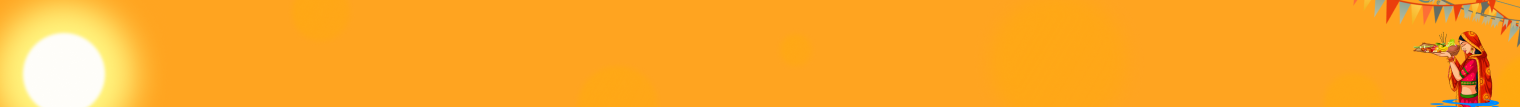
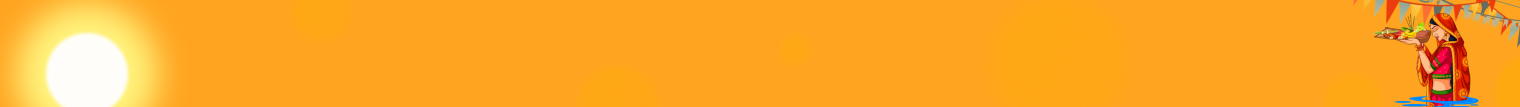
add chatt puja theme in website

Changed region(s): [[0.0, 0.0841, 0.1237, 1.0], [0.8967, 0.1121, 0.9895, 1.0]]

diff --git a/index.html b/index.html
@@ -40,16 +40,16 @@
 
   <title>Gati Shifting Packers | Trusted Packers and Movers - 15% off</title>
   <meta name="description"
-    content="Diwali Sale is Live | Gati Shifting Packers offers safe and affordable relocation services India & International moving services. Expert in Home shifting, Office, Car & Bike, & Warehouse Storage. Reliable service, trusted by thousands nationwide." />
+    content="Chatt Puja Sale is Live | Gati Shifting Packers offers safe and affordable relocation services India & International moving services. Expert in Home shifting, Office, Car & Bike, & Warehouse Storage. Reliable service, trusted by thousands nationwide." />
   <meta name="keywords"
     content="gati house shifting service, Packers and Movers India, Home Shifting, Office Relocation, Car Transport, Bike Transport, Household Shifting, Packing and Moving Services, Affordable Packers, Trusted Movers" />
   <meta name="author" content="Rohan" />
 
   <meta property="og:title"
-    content="Diwali Sale is Live!! | Gati Shifting Packers | Trusted Packers and Movers - 15% off" />
+    content="Chatt Puja Sale is Live!! | Gati Shifting Packers | Trusted Packers and Movers - 15% off" />
   <meta property="og:description"
     content="Gati Shifting Packers offers safe and affordable relocation services India & International moving services. Expert in Home shifting, Office, Car & Bike, & Warehouse Storage. Reliable service, trusted by thousands nationwide." />
-  <meta property="og:image" content="https://gatishiftingpackers.com/diwaliMetaImg.jpg" />
+  <meta property="og:image" content="https://gatishiftingpackers.com/chattMetaImg.jpg" />
   <meta property="og:image:width" content="1200" />
   <meta property="og:image:height" content="630" />
   <meta property="og:url" content="https://gatishiftingpackers.com/" />
@@ -57,10 +57,10 @@
 
   <meta name="twitter:card" content="summary_large_image" />
   <meta name="twitter:title"
-    content="Diwali Sale is Live!! | Gati Shifting Packers | Trusted Packers and Movers - 15% off" />
+    content="Chatt Puja Sale is Live!! | Gati Shifting Packers | Trusted Packers and Movers - 15% off" />
   <meta name="twitter:description"
     content="Gati Shifting Packers offers safe and affordable relocation services India & International moving services. Expert in Home shifting, Office, Car & Bike, & Warehouse Storage. Reliable service, trusted by thousands nationwide." />
-  <meta name="twitter:image" content="https://gatishiftingpackers.com/diwaliMetaImg.jpg" />
+  <meta name="twitter:image" content="https://gatishiftingpackers.com/chattMetaImg.jpg" />
 
 
   <meta name="robots" content="index, follow" />

diff --git a/src/pages/Home.tsx b/src/pages/Home.tsx
@@ -28,7 +28,7 @@ import AwardCertification from "../components/AwardCertification";
 import TrustUsSection from "../components/TrustUsSection";
 import ReviewVideo from "../components/ReviewVideos";
 
-import diwaliSlider from "../assets/diwaliTheme/diwalislider.png"
+import diwaliSlider from "../assets/diwaliTheme/diwalislider.webp"
 // import emailjs from 'emailjs-com';
 import { sendEmail } from "../utils/emailHelper";
 

diff --git a/src/style/_variables.scss b/src/style/_variables.scss
@@ -1,5 +1,5 @@
 // $primary-color: #2563eb;
-$primary-color: #FF271E;
+$primary-color: #FFA420;
 $secondary-color: #15ab4d;
 $background-color: #f8f9fa;
 $text-color: #333;
